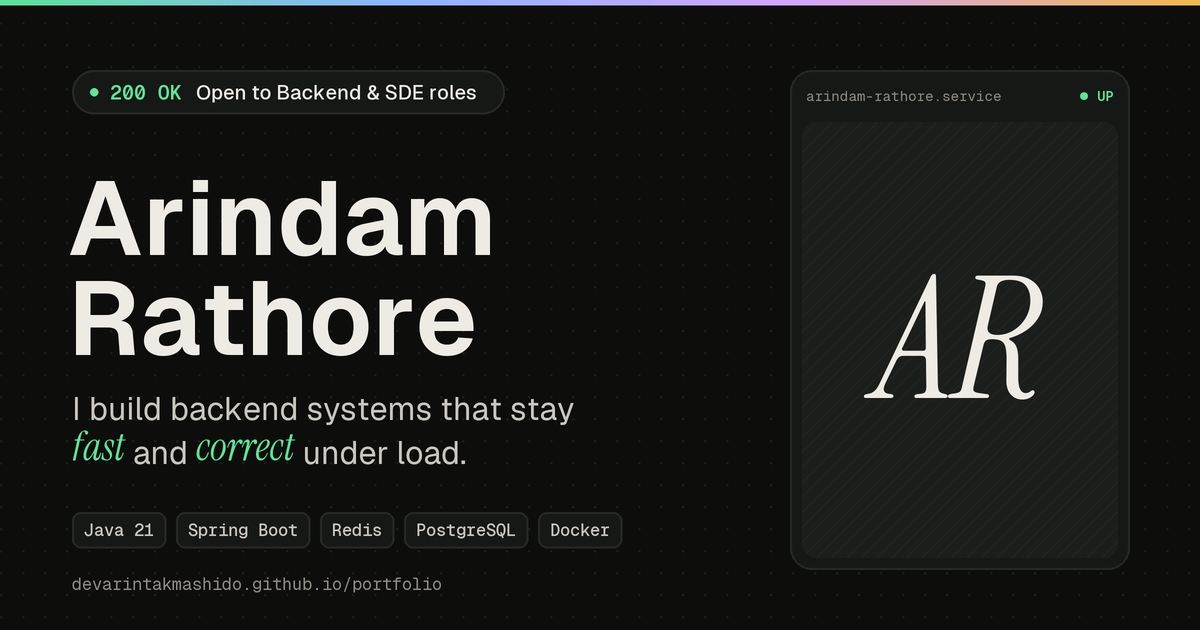
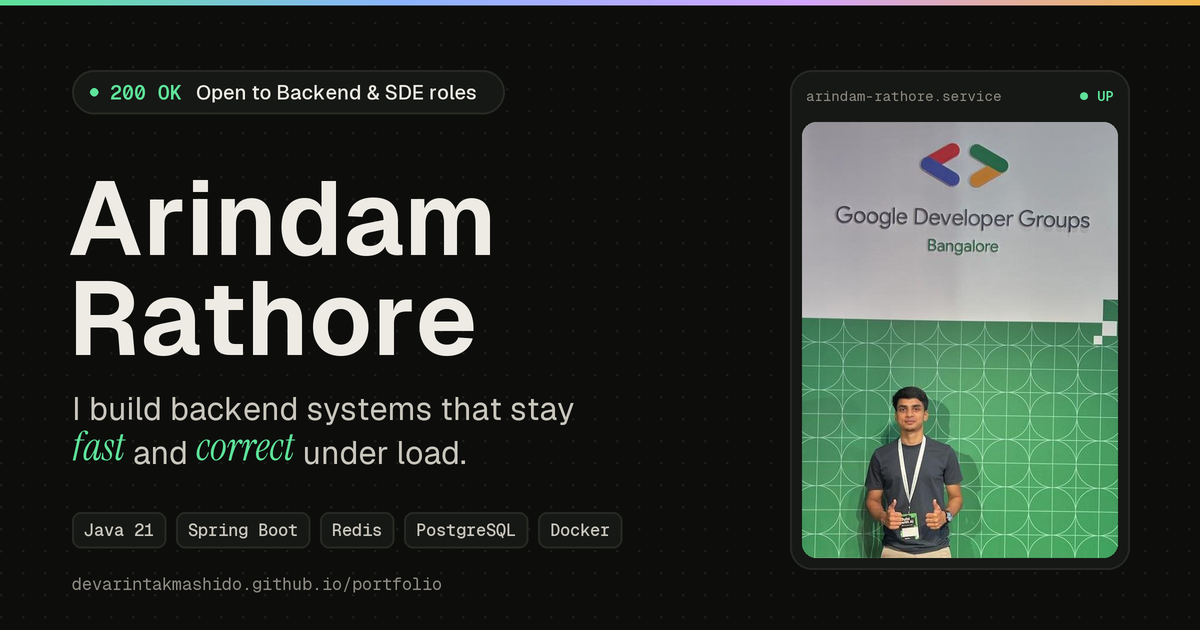
Add GDG Bangalore profile photo
Cropped 4:5 into the profile card (metadata stripped), caption moved
bottom-right so it doesn't cover the photo, and the social preview
image regenerated with the photo.

Changed region(s): [[0.6475, 0.181, 0.9558, 0.9048]]

diff --git a/index.html b/index.html
@@ -21,7 +21,7 @@
   <link rel="preconnect" href="https://fonts.googleapis.com">
   <link rel="preconnect" href="https://fonts.gstatic.com" crossorigin>
   <link href="https://fonts.googleapis.com/css2?family=Geist:wght@400;500;600;700&family=Geist+Mono:wght@400;500;600&family=Instrument+Serif:ital@0;1&display=swap" rel="stylesheet">
-  <link rel="stylesheet" href="assets/css/style.css?v=4">
+  <link rel="stylesheet" href="assets/css/style.css?v=5">
   <script>
     // Apply saved theme/view before paint to avoid a flash.
     try {
@@ -125,9 +125,9 @@
           <span class="up mono"><span class="dot" aria-hidden="true"></span>UP</span>
         </div>
         <figure class="photo">
-          <img src="assets/img/arindam.jpg" alt="Arindam Rathore at a Google Developer Groups Bangalore event" width="720" height="900" decoding="async">
+          <img src="assets/img/arindam.jpg" alt="Arindam Rathore in front of the Google Developer Groups Bangalore sign" width="590" height="738" decoding="async" fetchpriority="high">
           <div class="monogram" aria-hidden="true"><span>AR</span></div>
-          <figcaption class="mono">@ Google Developer Groups Bangalore</figcaption>
+          <figcaption class="mono">@ GDG Bangalore</figcaption>
         </figure>
         <dl class="svc-meta mono">
           <div><dt>region</dt><dd>blr-1 · Bengaluru</dd></div>
@@ -669,6 +669,6 @@ redis.call(<span class="s">'ZREMRANGEBYSCORE'</span>, KEYS[1], <span class="n">0
 
 <div class="toast" id="toast" role="status" aria-live="polite"></div>
 
-<script src="assets/js/main.js?v=4" defer></script>
+<script src="assets/js/main.js?v=5" defer></script>
 </body>
 </html>

diff --git a/assets/css/style.css b/assets/css/style.css
@@ -370,8 +370,8 @@ kbd {
 .up { display: inline-flex; align-items: center; gap: 8px; color: var(--accent); font-weight: 600; }
 .up .dot { width: 7px; height: 7px; }
 .photo { position: relative; margin: 0; border-radius: 12px; overflow: hidden; aspect-ratio: 4 / 5; background: var(--bg-2); }
-.photo img { position: absolute; inset: 0; width: 100%; height: 100%; object-fit: cover; object-position: 50% 30%; transition: transform .8s var(--ease); }
-.svc-card:hover .photo img { transform: scale(1.03); }
+.photo img { position: absolute; inset: 0; width: 100%; height: 100%; object-fit: cover; object-position: 50% 50%; transform-origin: 36% 70%; transition: transform .8s var(--ease); }
+.svc-card:hover .photo img { transform: scale(1.06); }
 .monogram {
   position: absolute; inset: 0; display: none; place-items: center;
   background:
@@ -383,7 +383,7 @@ kbd {
 .photo.no-photo img { display: none; }
 .photo.no-photo .monogram { display: grid; }
 .photo figcaption {
-  position: absolute; left: 10px; bottom: 10px; right: 10px; width: max-content; max-width: calc(100% - 20px);
+  position: absolute; right: 10px; bottom: 10px; width: max-content; max-width: calc(100% - 20px);
   padding: 5px 10px; border-radius: 8px; font-size: 11.5px;
   color: #fff; background: rgba(10, 10, 8, .55); backdrop-filter: blur(8px); -webkit-backdrop-filter: blur(8px);
 }
